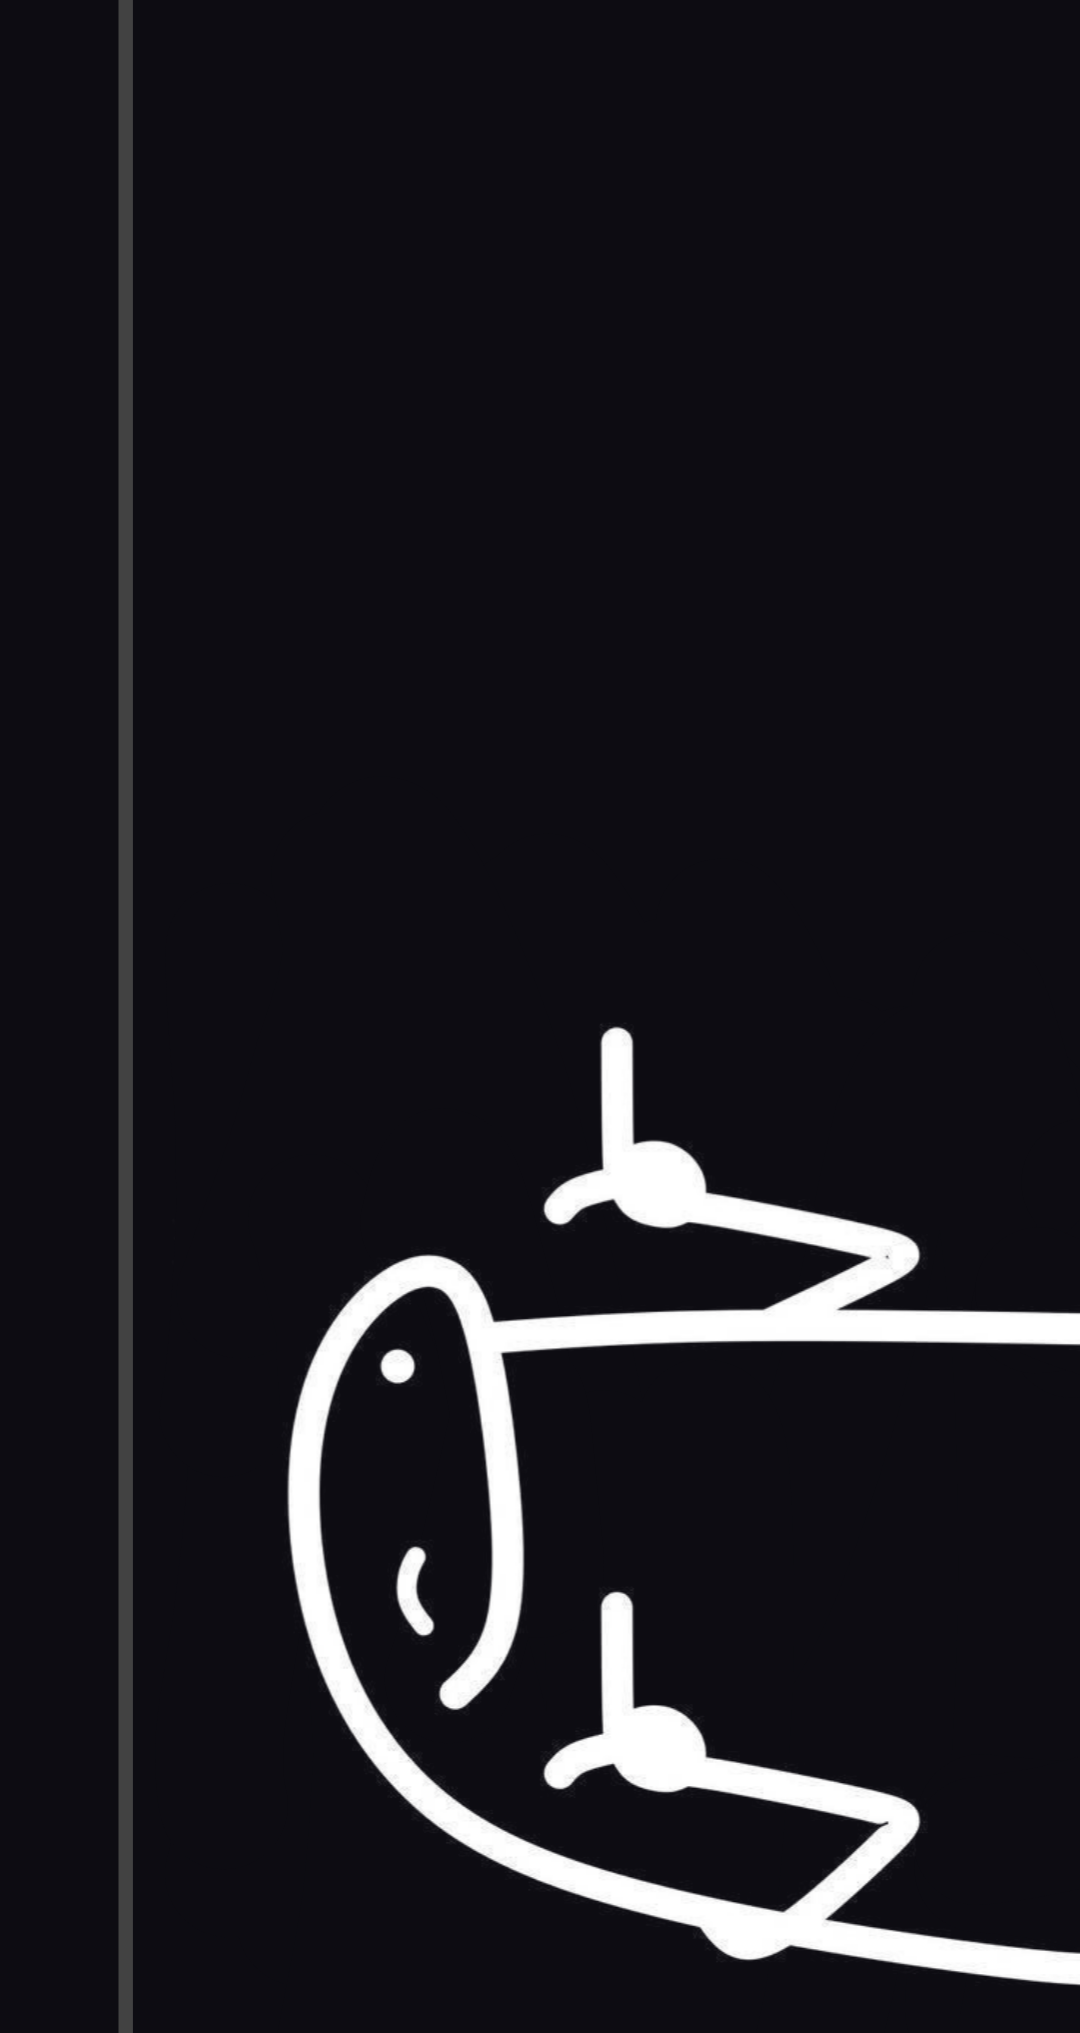
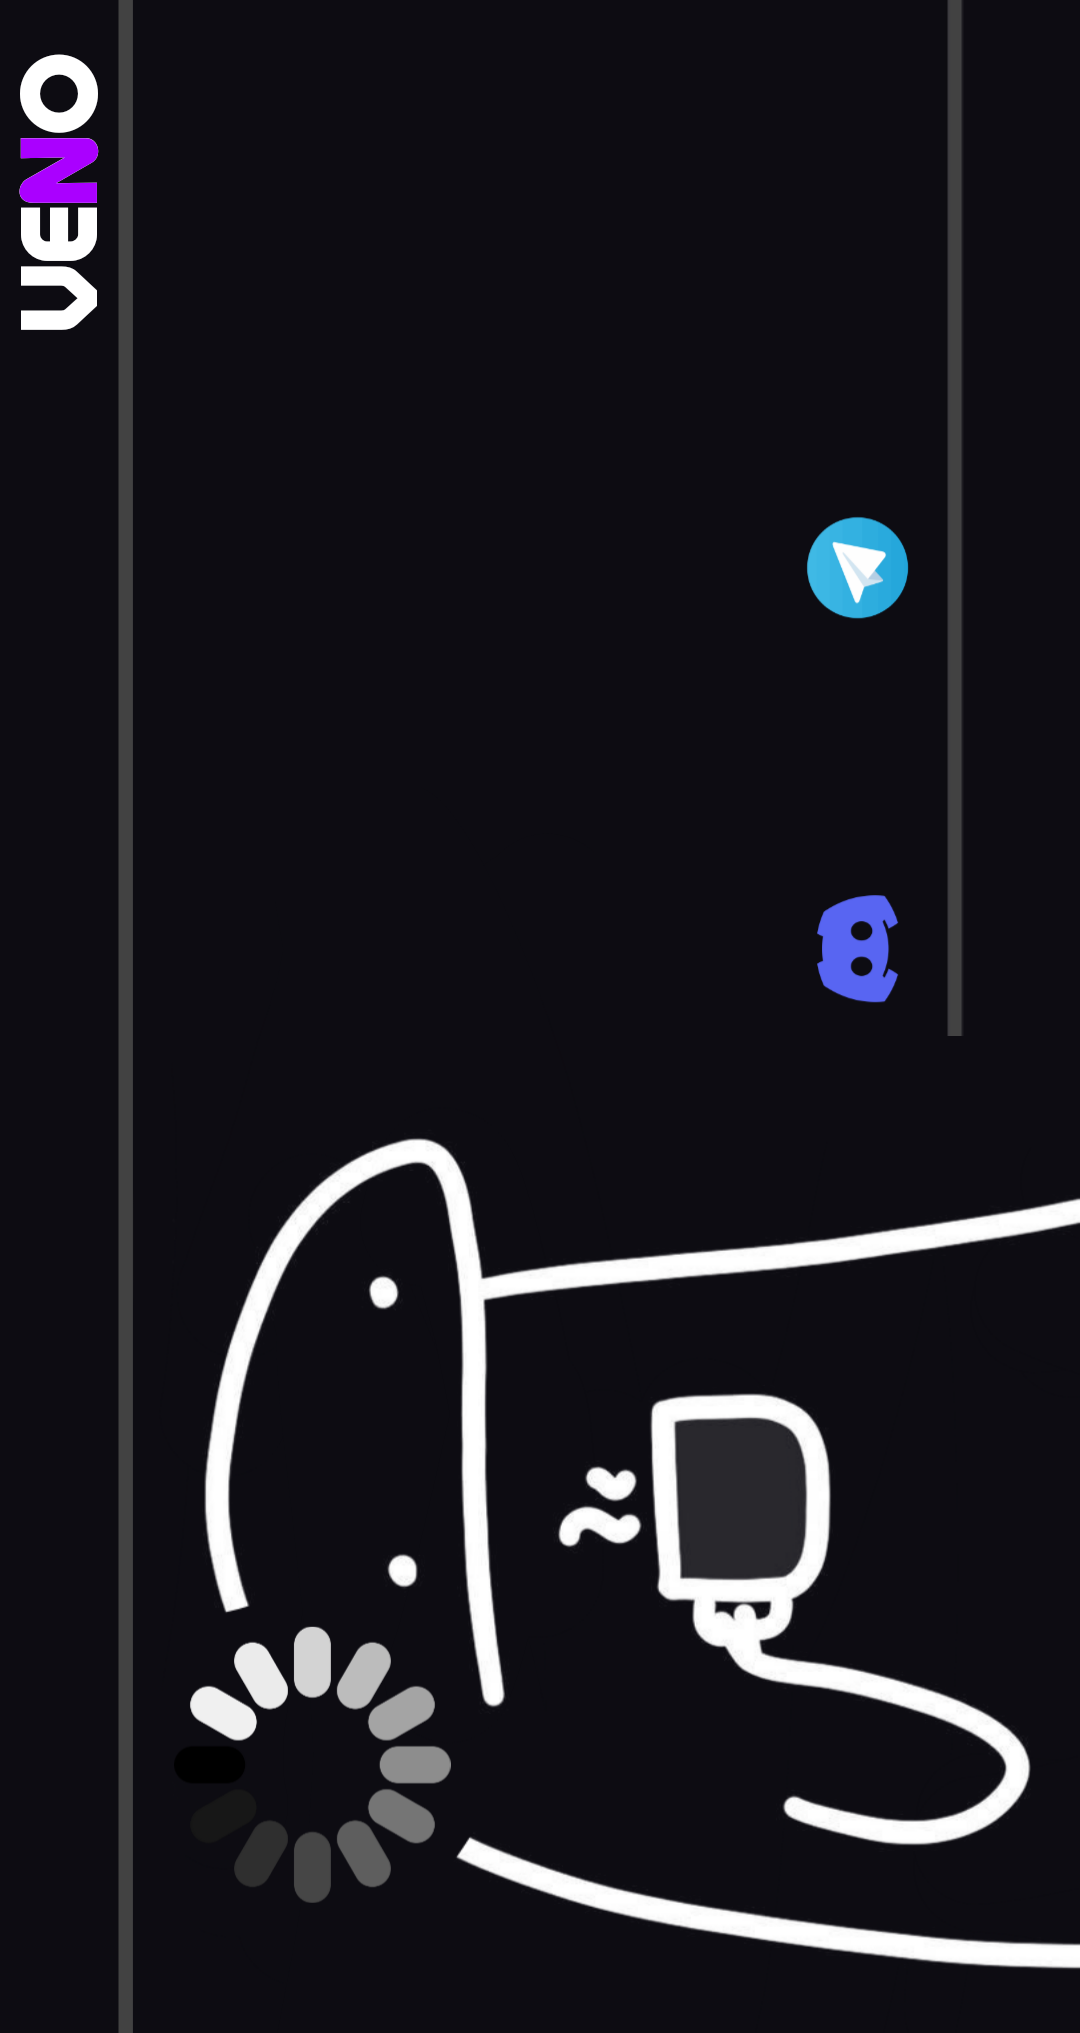
1

diff --git a/lcd/example/1inch9_LCD_test.py b/lcd/example/1inch9_LCD_test.py
@@ -8,6 +8,7 @@ import socket
 from datetime import datetime
 import spidev as SPI
 from PIL import Image, ImageDraw, ImageFont, ImageOps
+import psutil
 
 sys.path.append("..")
 from lcdlib import LCD_1inch9
@@ -47,6 +48,9 @@ def get_cpu_temp():
         temp = f.read()
     return float(temp) / 1000
 
+def get_cpu_usage():
+    return psutil.cpu_percent()
+
 def draw_rotated_text(image, text, position, font, fill, angle):
     # Create a new image with transparent background to draw the text
     text_image = Image.new('RGBA', (image.width, image.height), (255, 255, 255, 0))
@@ -61,23 +65,25 @@ def draw_rotated_text(image, text, position, font, fill, angle):
     image.paste(rotated_text, (x, y), rotated_text)
     return image
 
+
 while True:
     for i in range(1, 6):
         # Open image
         image = Image.open(f'../pic/veno_mood_{i}.jpg').convert('RGBA')
         image.rotate(180)
         # Get current time, IP address, and CPU temperature
-        current_time = datetime.now().strftime('%Y-%m-%d %H:%M:%S')
+        current_time = datetime.now().strftime('%Y-%m-%d   %H:%M')
         ip_address = get_ip_address()
         cpu_temp = get_cpu_temp()
+        cpu_usage = get_cpu_usage()
 
         # Load font
-        font = ImageFont.truetype('/usr/share/fonts/truetype/dejavu/DejaVuSans-Bold.ttf', 120)
+        font = ImageFont.truetype('/usr/share/fonts/truetype/dejavu/DejaVuSans-Bold.ttf', 100)
 
         # Draw rotated text on the image
-        image = draw_rotated_text(image, f'Time: {current_time}', (10, 10), font, (255, 0, 0), 90)
-        image = draw_rotated_text(image, f'IP: {ip_address}', (10, 100), font, (255, 0, 0), 90)
-        image = draw_rotated_text(image, f'Temp: {cpu_temp:.1f} C', (10, 190), font, (255, 0, 0), 90)
+        image = draw_rotated_text(image, f'{current_time}', (10, 920), font, (255, 255, 255), 90)
+        image = draw_rotated_text(image, f'{ip_address}', (200, -150), font, (255, 255, 255), 90)
+        image = draw_rotated_text(image, f'CPU: {cpu_temp:.1f} C     {cpu_usage:.1f}%', (350, -150), font, (255, 255, 255), 90)
 
         # Display image
         disp.ShowImage(image)
